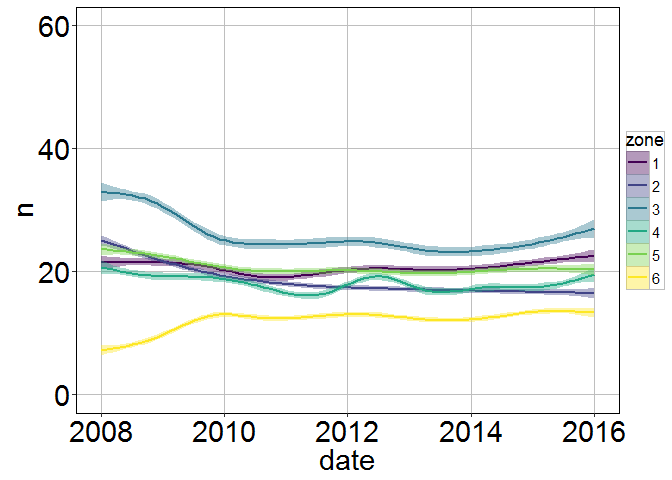
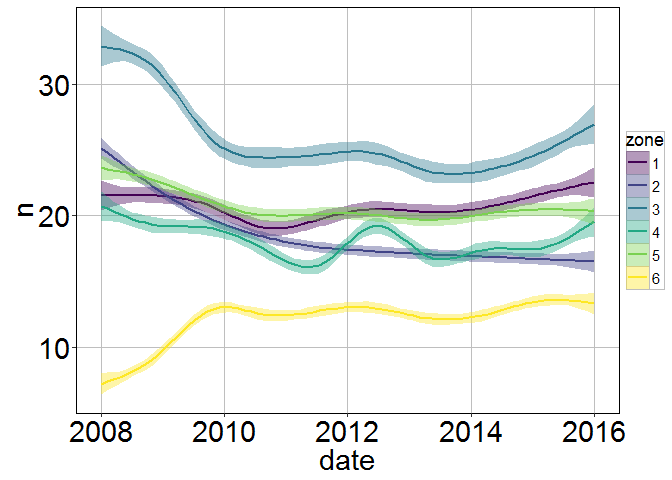
updated exploratory analysis markdown document

Changed region(s): [[0.0312, 0.0312, 0.9062, 0.8438], [0.0625, 0.1562, 0.125, 0.2188]]

diff --git a/Exploratory_Analysis_rmarkdown_github.md b/Exploratory_Analysis_rmarkdown_github.md
@@ -54,7 +54,11 @@ library(viridis)
 library(ggmap)
 ```
 
-First, we need to read the data into R
+Set your working directory
+
+<http://rprogramming.net/set-working-directory-in-r/>
+
+Then, read the data into R
 
 ``` r
 df <- read_csv("archive-police-blotter.csv")
@@ -87,7 +91,7 @@ df <- read_csv("archive-police-blotter.csv")
     ## ...... ... ...................... .......
     ## See problems(...) for more details.
 
-readr tells us how it interpreted the column classes, and alerted us that it was unable to load 6 rows from the data
+readr::read\_csv tells us how it interpreted the column classes, and alerted us that it was unable to load 6 rows from the data
 
 Next, we will change the column names so they are easier to work with
 
@@ -217,8 +221,7 @@ df %>%
   ggplot(aes(date, n, color = zone, fill = zone)) +
   geom_smooth() +
   scale_fill_viridis(discrete = TRUE) +
-  scale_color_viridis(discrete = TRUE) +
-  coord_cartesian(ylim = c(0, 60))
+  scale_color_viridis(discrete = TRUE)
 ```
 
     ## `geom_smooth()` using method = 'gam'
@@ -241,8 +244,7 @@ df %>%
   ggplot(aes(date, n, color = zone, fill = zone)) +
   geom_smooth() +
   scale_fill_viridis(discrete = TRUE) +
-  scale_color_viridis(discrete = TRUE) +
-  coord_cartesian(ylim = c(0, 60))
+  scale_color_viridis(discrete = TRUE)
 ```
 
     ## `geom_smooth()` using method = 'gam'
